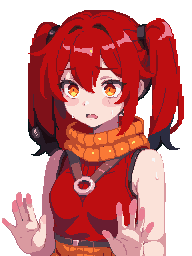
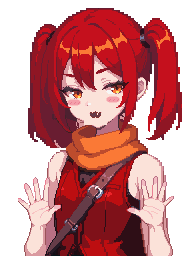
Jieyan's laugh and panic redone on her everyday portrait: same clothes, hair ties and shading; new face and inpainted hands in her palette

diff --git a/game/art/NOTES.md b/game/art/NOTES.md
@@ -20,6 +20,12 @@
 - **3 婕焰的虎牙**：程式畫，每張都在嘴巴的畫面右側、同一個位置：白色（`#f6f6f6`）、深紅褐輪廓（`#88322e`，都是她色盤裡本來的顏色），外框 4 格寬、4 格高，往下收成尖。閉嘴或微笑（一般那張、`smile`、`smug`、`shy`、`bun`、`bun_smug`、`bun_shy`）：從嘴線下面露出來，尖端壓在下唇上；張嘴（`teary`、`angry`、`bun_teary`）：從上唇往下掛在嘴裡。`serious` 不露。兩個姿勢在第 4 項重做時一起加。
 - **3.5 婕焰 `smug`**：嘴改用一般那張的咧嘴笑（露牙）當底，左邊嘴角壓平、右邊嘴角再往上勾一格，加上虎牙；眼睛在第 0 項已經瞇起來（上眼瞼壓 3 格、下眼瞼抬 1 格）。`smile` 只加虎牙，其他不動。
 
+- **4 婕焰的兩個姿勢 `laugh`、`panic`（重做）**：這次不讓模型重畫整個人，而是把一般那張當成整張的底：頭、髮飾、瀏海、背心、背帶、扣環、圍巾、皮膚明暗全部就是 `portrait.png` 的像素，只改兩件事：
+  - 表情：`laugh` 用第 0 項的工具把兩眼換成閉眼的弧線，嘴換成程式畫的張大笑口（上緣平、下緣圓、裡面深紅、舌頭粉紅、虎牙）；`panic` 眼睛是一般那張的睜眼，嘴是小小的、歪歪的張開嘴加虎牙。
+  - 手：先用膚色畫出手的位置和大概形狀，再只在手那一塊用模型局部重繪（放大 8 倍、強度 0.72、四個種子挑一張），每一格換成 `portrait.png` 色盤裡最接近的顏色；重繪範圍裡只留手和手臂（膚色加一格輪廓），背心和背帶一律換回一般那張的像素。`panic` 是兩手舉在胸前、掌心朝外；`laugh` 是一隻手按在肚子上。
+  - 所以不會再有畫風、光影、髮飾、背心花紋不一樣的問題；全張只用一般那張的顏色。缺點是身體和頭的角度和一般那張完全一樣（沒有仰頭或轉身），姿勢只靠手和表情表現。
+  - `panic` 試過在額頭加一滴汗，但在這個尺寸只是一顆淺藍的點，看起來像雜點，拿掉了。
+
 ## 總結：第三輪（上一輪要重做的地方）
 
 README「下一輪：上一輪要重做的地方」清單全部做完，沒有跳過的項目。每做完一項就提交並推上 `ccr-62025098-zk9541`。全部只用本機 ComfyUI，只動 `game/art/` 底下、清單列到的圖。
